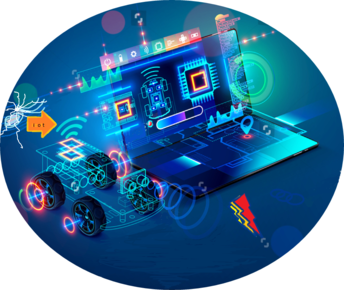
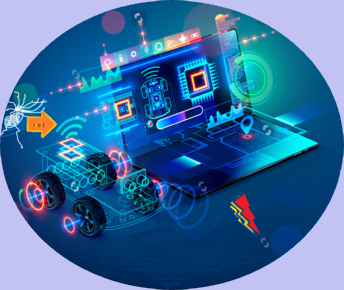
Add files via upload

diff --git a/index.html b/index.html
@@ -12,7 +12,7 @@
     <table cellspacing="20">
         <tr>
             <td>
-                <img src="images/iot.png" alt="Free Plamela Meteo">
+                <img class="fundo" src="images/iot.png" alt="Free Plamela Meteo">
             </td>
             <td>
                 <h1>Painel de Controlo by Antonio M. Santana Pereira</h1>

diff --git a/contact.html b/contact.html
@@ -9,6 +9,7 @@
 </head>
 
 <body>
+    <img class="fundo" src="https://emojipedia-us.s3.dualstack.us-west-1.amazonaws.com/thumbs/120/google/241/man-technologist_1f468-200d-1f4bb.png" alt="Computer Man">
     <h1>Os Meus Contactos</h1>
     <p>mail: sanx10@sapo.pt</p>
     <p>mobil: 96xxxxxxx</p>

diff --git a/css/styles.css b/css/styles.css
@@ -33,3 +33,6 @@ hr{
     border-width: 5px;
     width: 50%;
 }
+.fundo{
+    background-color: rgb(194, 194, 243);
+}
